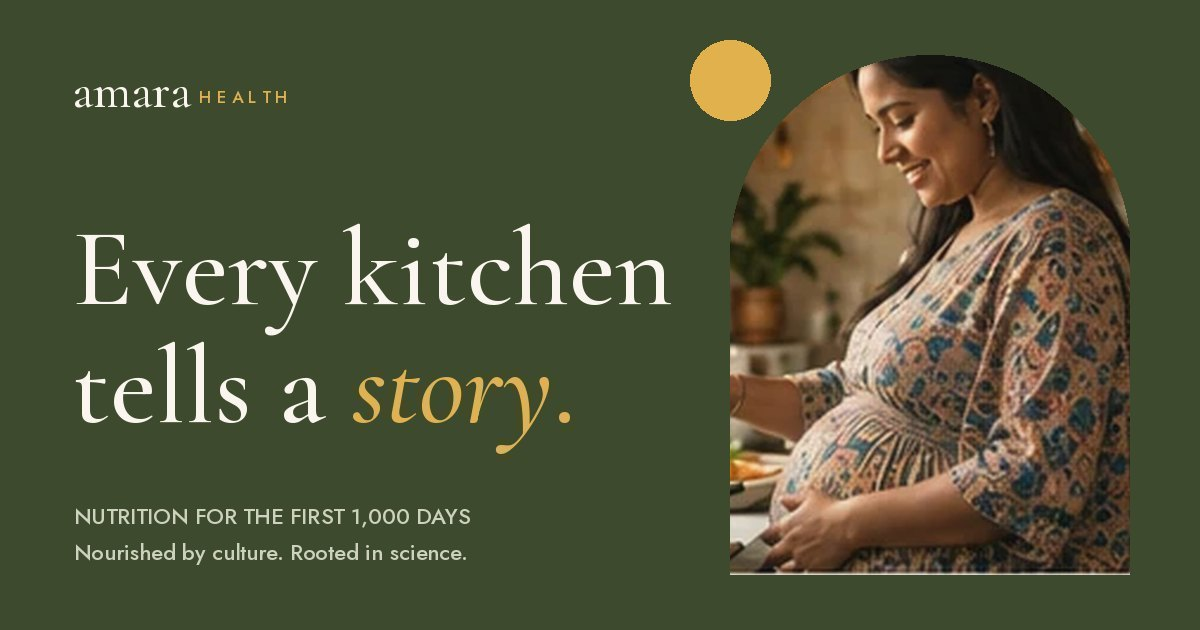
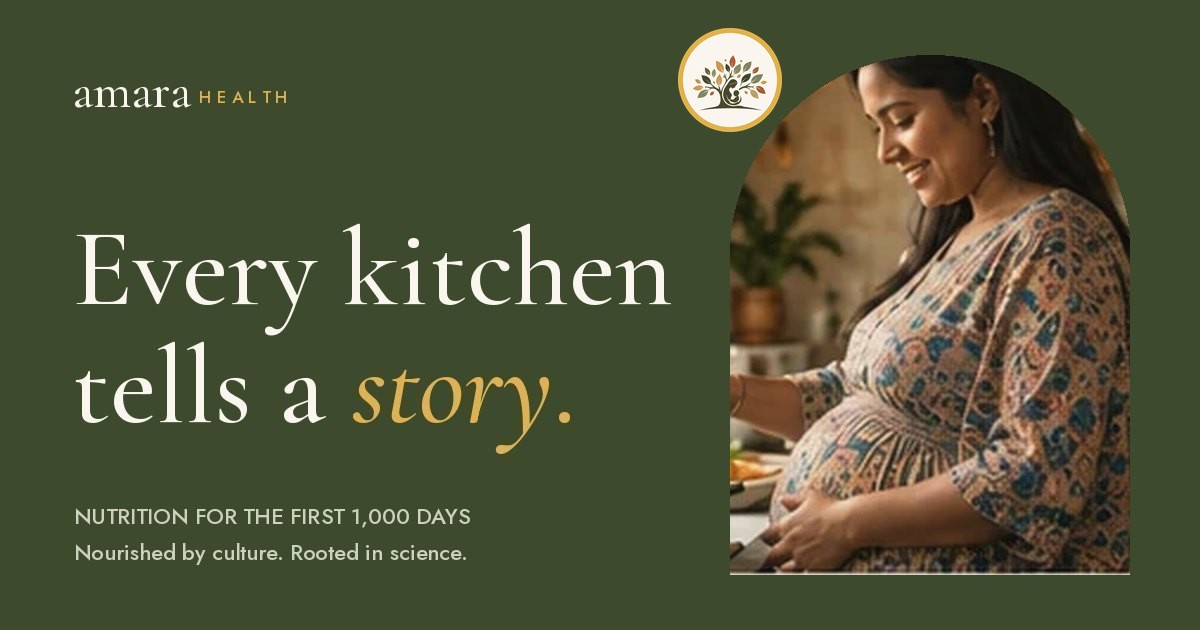
Erica bio, progress intro and timeline, email coming soon, branded link preview
- Founders: Erica's bio updated to the two-paragraph version
- Progress: new intro line; continuous timeline line, gold for completed steps,
  green only for the current step, open circles for what's next
- Footer: Email shows 'Coming soon'
- Link preview image carries the tree emblem; og/twitter image URLs are absolute

Claude-Session: https://claude.ai/code/session_0169984jrpwjxcBSJytRpTHi

Changed region(s): [[0.555, 0.0302, 0.6783, 0.2111]]

diff --git a/founders.html b/founders.html
@@ -12,14 +12,14 @@
 <meta property="og:site_name" content="Amara Health">
 <meta property="og:title" content="Founders — Amara Health">
 <meta property="og:description" content="Reimagining maternal nutrition through culture, science, and technology, for the first 1,000 days.">
-<meta property="og:image" content="/assets/brand/og-image.jpg">
+<meta property="og:image" content="https://amara1000.netlify.app/assets/brand/og-image.jpg?v=2">
 <meta property="og:image:width" content="1200">
 <meta property="og:image:height" content="630">
 <meta property="og:image:alt" content="Amara Health — Every table. Every kitchen. Every culture.">
 <meta name="twitter:card" content="summary_large_image">
 <meta name="twitter:title" content="Founders — Amara Health">
 <meta name="twitter:description" content="Reimagining maternal nutrition through culture, science, and technology.">
-<meta name="twitter:image" content="/assets/brand/og-image.jpg">
+<meta name="twitter:image" content="https://amara1000.netlify.app/assets/brand/og-image.jpg?v=2">
 
 <link rel="icon" href="/favicon.ico" sizes="any">
 <link rel="icon" href="/assets/brand/favicon-32.png?v=2" type="image/png" sizes="32x32">
@@ -123,9 +123,8 @@ window.scrollTo(0, 0);
           <h2 class="founder-name">Erica Stephens, MPH</h2>
           <p class="founder-creds">Co-founder · MPH, Johns Hopkins Bloomberg School of Public Health</p>
           <div class="founder-bio">
-            <p>Erica grew up on a tobacco farm in rural Virginia, surrounded by the food traditions of the Black American South&mdash;collard greens, black-eyed peas, sweet potatoes, butter beans, and meals made from what was grown, shared, and passed down through generations.</p>
-            <p>Her lifelong interest in health, nutrition, fitness, and motherhood eventually became part of her work in public health. With a background spanning health policy, data, digital health, and health systems, Erica co-founded Amara to help build nutrition tools that reflect the foods, cultures, and everyday realities of the women who use them.</p>
-            <p>She believes better maternal health starts with meeting women where they are&mdash;and recognizing the knowledge, traditions, and nourishment already present at their tables.</p>
+            <p>Erica grew up on a tobacco farm in rural Virginia, eating the foods of the Black American South. Collard greens slow-cooked with smoked turkey. Black-eyed peas, sweet potatoes, butter beans. Food grown, shared, and passed down through generations.</p>
+            <p>Her love of health, nutrition, fitness, and motherhood eventually became part of her work in public health. At Hopkins, she focused on health systems, policy, data, and digital health. She co-founded Amara with one conviction: nutrition tools should reflect the foods, cultures, and knowledge women already bring to the table.</p>
           </div>
         </div>
       </article>
@@ -152,7 +151,7 @@ window.scrollTo(0, 0);
       <div class="closing-side">
         <p class="closing-label">Stay connected</p>
         <ul class="stay-list">
-          <li><span class="stay-name">Email</span><a href="mailto:amarahealth@gmail.com">amarahealth@gmail.com</a></li>
+          <li><span class="stay-name">Email</span><span class="stay-soon">Coming soon</span></li>
           <li><span class="stay-name">LinkedIn</span><span class="stay-soon">Coming soon <svg viewBox="0 0 24 24" width="16" height="16" aria-hidden="true"><path d="M7 17 17 7M9 7h8v8" fill="none" stroke="currentColor" stroke-width="1.6"/></svg></span></li>
           <li><span class="stay-name">Amara Village</span><span class="stay-soon">Coming soon <svg viewBox="0 0 24 24" width="16" height="16" aria-hidden="true"><path d="M7 17 17 7M9 7h8v8" fill="none" stroke="currentColor" stroke-width="1.6"/></svg></span></li>
         </ul>

diff --git a/progress.html b/progress.html
@@ -12,14 +12,14 @@
 <meta property="og:site_name" content="Amara Health">
 <meta property="og:title" content="Progress — Amara Health">
 <meta property="og:description" content="Reimagining maternal nutrition through culture, science, and technology, for the first 1,000 days.">
-<meta property="og:image" content="/assets/brand/og-image.jpg">
+<meta property="og:image" content="https://amara1000.netlify.app/assets/brand/og-image.jpg?v=2">
 <meta property="og:image:width" content="1200">
 <meta property="og:image:height" content="630">
 <meta property="og:image:alt" content="Amara Health — Every table. Every kitchen. Every culture.">
 <meta name="twitter:card" content="summary_large_image">
 <meta name="twitter:title" content="Progress — Amara Health">
 <meta name="twitter:description" content="Reimagining maternal nutrition through culture, science, and technology.">
-<meta name="twitter:image" content="/assets/brand/og-image.jpg">
+<meta name="twitter:image" content="https://amara1000.netlify.app/assets/brand/og-image.jpg?v=2">
 
 <link rel="icon" href="/favicon.ico" sizes="any">
 <link rel="icon" href="/assets/brand/favicon-32.png?v=2" type="image/png" sizes="32x32">
@@ -108,7 +108,7 @@ window.scrollTo(0, 0);
       <h1 id="progress-title" class="display reveal">From an idea <em>to impact.</em></h1>
       </div>
       <div class="split-right">
-      <p class="lede reveal">We are early, and we say so plainly. Here is where Amara stands today.</p>
+      <p class="lede reveal">We&rsquo;re building Amara thoughtfully, one step at a time. Here&rsquo;s where we are today.</p>
           </div>
     </header>
 
@@ -163,7 +163,7 @@ window.scrollTo(0, 0);
       <div class="closing-side">
         <p class="closing-label">Stay connected</p>
         <ul class="stay-list">
-          <li><span class="stay-name">Email</span><a href="mailto:amarahealth@gmail.com">amarahealth@gmail.com</a></li>
+          <li><span class="stay-name">Email</span><span class="stay-soon">Coming soon</span></li>
           <li><span class="stay-name">LinkedIn</span><span class="stay-soon">Coming soon <svg viewBox="0 0 24 24" width="16" height="16" aria-hidden="true"><path d="M7 17 17 7M9 7h8v8" fill="none" stroke="currentColor" stroke-width="1.6"/></svg></span></li>
           <li><span class="stay-name">Amara Village</span><span class="stay-soon">Coming soon <svg viewBox="0 0 24 24" width="16" height="16" aria-hidden="true"><path d="M7 17 17 7M9 7h8v8" fill="none" stroke="currentColor" stroke-width="1.6"/></svg></span></li>
         </ul>

diff --git a/index.html b/index.html
@@ -12,14 +12,14 @@
 <meta property="og:site_name" content="Amara Health">
 <meta property="og:title" content="Amara Health — Every table. Every kitchen. Every culture.">
 <meta property="og:description" content="Reimagining maternal nutrition through culture, science, and technology, for the first 1,000 days.">
-<meta property="og:image" content="/assets/brand/og-image.jpg">
+<meta property="og:image" content="https://amara1000.netlify.app/assets/brand/og-image.jpg?v=2">
 <meta property="og:image:width" content="1200">
 <meta property="og:image:height" content="630">
 <meta property="og:image:alt" content="Amara Health — Every table. Every kitchen. Every culture.">
 <meta name="twitter:card" content="summary_large_image">
 <meta name="twitter:title" content="Amara Health — Every table. Every kitchen. Every culture.">
 <meta name="twitter:description" content="Reimagining maternal nutrition through culture, science, and technology.">
-<meta name="twitter:image" content="/assets/brand/og-image.jpg">
+<meta name="twitter:image" content="https://amara1000.netlify.app/assets/brand/og-image.jpg?v=2">
 
 <link rel="icon" href="/favicon.ico" sizes="any">
 <link rel="icon" href="/assets/brand/favicon-32.png?v=2" type="image/png" sizes="32x32">
@@ -172,7 +172,7 @@ window.scrollTo(0, 0);
       <div class="closing-side">
         <p class="closing-label">Stay connected</p>
         <ul class="stay-list">
-          <li><span class="stay-name">Email</span><a href="mailto:amarahealth@gmail.com">amarahealth@gmail.com</a></li>
+          <li><span class="stay-name">Email</span><span class="stay-soon">Coming soon</span></li>
           <li><span class="stay-name">LinkedIn</span><span class="stay-soon">Coming soon <svg viewBox="0 0 24 24" width="16" height="16" aria-hidden="true"><path d="M7 17 17 7M9 7h8v8" fill="none" stroke="currentColor" stroke-width="1.6"/></svg></span></li>
           <li><span class="stay-name">Amara Village</span><span class="stay-soon">Coming soon <svg viewBox="0 0 24 24" width="16" height="16" aria-hidden="true"><path d="M7 17 17 7M9 7h8v8" fill="none" stroke="currentColor" stroke-width="1.6"/></svg></span></li>
         </ul>

diff --git a/partner.html b/partner.html
@@ -12,14 +12,14 @@
 <meta property="og:site_name" content="Amara Health">
 <meta property="og:title" content="Partner With Us — Amara Health">
 <meta property="og:description" content="Reimagining maternal nutrition through culture, science, and technology, for the first 1,000 days.">
-<meta property="og:image" content="/assets/brand/og-image.jpg">
+<meta property="og:image" content="https://amara1000.netlify.app/assets/brand/og-image.jpg?v=2">
 <meta property="og:image:width" content="1200">
 <meta property="og:image:height" content="630">
 <meta property="og:image:alt" content="Amara Health — Every table. Every kitchen. Every culture.">
 <meta name="twitter:card" content="summary_large_image">
 <meta name="twitter:title" content="Partner With Us — Amara Health">
 <meta name="twitter:description" content="Reimagining maternal nutrition through culture, science, and technology.">
-<meta name="twitter:image" content="/assets/brand/og-image.jpg">
+<meta name="twitter:image" content="https://amara1000.netlify.app/assets/brand/og-image.jpg?v=2">
 
 <link rel="icon" href="/favicon.ico" sizes="any">
 <link rel="icon" href="/assets/brand/favicon-32.png?v=2" type="image/png" sizes="32x32">
@@ -226,7 +226,7 @@ window.scrollTo(0, 0);
       <div class="closing-side">
         <p class="closing-label">Stay connected</p>
         <ul class="stay-list">
-          <li><span class="stay-name">Email</span><a href="mailto:amarahealth@gmail.com">amarahealth@gmail.com</a></li>
+          <li><span class="stay-name">Email</span><span class="stay-soon">Coming soon</span></li>
           <li><span class="stay-name">LinkedIn</span><span class="stay-soon">Coming soon <svg viewBox="0 0 24 24" width="16" height="16" aria-hidden="true"><path d="M7 17 17 7M9 7h8v8" fill="none" stroke="currentColor" stroke-width="1.6"/></svg></span></li>
           <li><span class="stay-name">Amara Village</span><span class="stay-soon">Coming soon <svg viewBox="0 0 24 24" width="16" height="16" aria-hidden="true"><path d="M7 17 17 7M9 7h8v8" fill="none" stroke="currentColor" stroke-width="1.6"/></svg></span></li>
         </ul>

diff --git a/challenge.html b/challenge.html
@@ -12,14 +12,14 @@
 <meta property="og:site_name" content="Amara Health">
 <meta property="og:title" content="The Challenge — Amara Health">
 <meta property="og:description" content="Reimagining maternal nutrition through culture, science, and technology, for the first 1,000 days.">
-<meta property="og:image" content="/assets/brand/og-image.jpg">
+<meta property="og:image" content="https://amara1000.netlify.app/assets/brand/og-image.jpg?v=2">
 <meta property="og:image:width" content="1200">
 <meta property="og:image:height" content="630">
 <meta property="og:image:alt" content="Amara Health — Every table. Every kitchen. Every culture.">
 <meta name="twitter:card" content="summary_large_image">
 <meta name="twitter:title" content="The Challenge — Amara Health">
 <meta name="twitter:description" content="Reimagining maternal nutrition through culture, science, and technology.">
-<meta name="twitter:image" content="/assets/brand/og-image.jpg">
+<meta name="twitter:image" content="https://amara1000.netlify.app/assets/brand/og-image.jpg?v=2">
 
 <link rel="icon" href="/favicon.ico" sizes="any">
 <link rel="icon" href="/assets/brand/favicon-32.png?v=2" type="image/png" sizes="32x32">
@@ -230,7 +230,7 @@ window.scrollTo(0, 0);
       <div class="closing-side">
         <p class="closing-label">Stay connected</p>
         <ul class="stay-list">
-          <li><span class="stay-name">Email</span><a href="mailto:amarahealth@gmail.com">amarahealth@gmail.com</a></li>
+          <li><span class="stay-name">Email</span><span class="stay-soon">Coming soon</span></li>
           <li><span class="stay-name">LinkedIn</span><span class="stay-soon">Coming soon <svg viewBox="0 0 24 24" width="16" height="16" aria-hidden="true"><path d="M7 17 17 7M9 7h8v8" fill="none" stroke="currentColor" stroke-width="1.6"/></svg></span></li>
           <li><span class="stay-name">Amara Village</span><span class="stay-soon">Coming soon <svg viewBox="0 0 24 24" width="16" height="16" aria-hidden="true"><path d="M7 17 17 7M9 7h8v8" fill="none" stroke="currentColor" stroke-width="1.6"/></svg></span></li>
         </ul>

diff --git a/approach.html b/approach.html
@@ -12,14 +12,14 @@
 <meta property="og:site_name" content="Amara Health">
 <meta property="og:title" content="Our Approach — Amara Health">
 <meta property="og:description" content="Reimagining maternal nutrition through culture, science, and technology, for the first 1,000 days.">
-<meta property="og:image" content="/assets/brand/og-image.jpg">
+<meta property="og:image" content="https://amara1000.netlify.app/assets/brand/og-image.jpg?v=2">
 <meta property="og:image:width" content="1200">
 <meta property="og:image:height" content="630">
 <meta property="og:image:alt" content="Amara Health — Every table. Every kitchen. Every culture.">
 <meta name="twitter:card" content="summary_large_image">
 <meta name="twitter:title" content="Our Approach — Amara Health">
 <meta name="twitter:description" content="Reimagining maternal nutrition through culture, science, and technology.">
-<meta name="twitter:image" content="/assets/brand/og-image.jpg">
+<meta name="twitter:image" content="https://amara1000.netlify.app/assets/brand/og-image.jpg?v=2">
 
 <link rel="icon" href="/favicon.ico" sizes="any">
 <link rel="icon" href="/assets/brand/favicon-32.png?v=2" type="image/png" sizes="32x32">
@@ -194,7 +194,7 @@ window.scrollTo(0, 0);
       <div class="closing-side">
         <p class="closing-label">Stay connected</p>
         <ul class="stay-list">
-          <li><span class="stay-name">Email</span><a href="mailto:amarahealth@gmail.com">amarahealth@gmail.com</a></li>
+          <li><span class="stay-name">Email</span><span class="stay-soon">Coming soon</span></li>
           <li><span class="stay-name">LinkedIn</span><span class="stay-soon">Coming soon <svg viewBox="0 0 24 24" width="16" height="16" aria-hidden="true"><path d="M7 17 17 7M9 7h8v8" fill="none" stroke="currentColor" stroke-width="1.6"/></svg></span></li>
           <li><span class="stay-name">Amara Village</span><span class="stay-soon">Coming soon <svg viewBox="0 0 24 24" width="16" height="16" aria-hidden="true"><path d="M7 17 17 7M9 7h8v8" fill="none" stroke="currentColor" stroke-width="1.6"/></svg></span></li>
         </ul>

diff --git a/flora.html b/flora.html
@@ -12,14 +12,14 @@
 <meta property="og:site_name" content="Amara Health">
 <meta property="og:title" content="Meet Flora — Amara Health">
 <meta property="og:description" content="Reimagining maternal nutrition through culture, science, and technology, for the first 1,000 days.">
-<meta property="og:image" content="/assets/brand/og-image.jpg">
+<meta property="og:image" content="https://amara1000.netlify.app/assets/brand/og-image.jpg?v=2">
 <meta property="og:image:width" content="1200">
 <meta property="og:image:height" content="630">
 <meta property="og:image:alt" content="Amara Health — Every table. Every kitchen. Every culture.">
 <meta name="twitter:card" content="summary_large_image">
 <meta name="twitter:title" content="Meet Flora — Amara Health">
 <meta name="twitter:description" content="Reimagining maternal nutrition through culture, science, and technology.">
-<meta name="twitter:image" content="/assets/brand/og-image.jpg">
+<meta name="twitter:image" content="https://amara1000.netlify.app/assets/brand/og-image.jpg?v=2">
 
 <link rel="icon" href="/favicon.ico" sizes="any">
 <link rel="icon" href="/assets/brand/favicon-32.png?v=2" type="image/png" sizes="32x32">
@@ -162,7 +162,7 @@ window.scrollTo(0, 0);
       <div class="closing-side">
         <p class="closing-label">Stay connected</p>
         <ul class="stay-list">
-          <li><span class="stay-name">Email</span><a href="mailto:amarahealth@gmail.com">amarahealth@gmail.com</a></li>
+          <li><span class="stay-name">Email</span><span class="stay-soon">Coming soon</span></li>
           <li><span class="stay-name">LinkedIn</span><span class="stay-soon">Coming soon <svg viewBox="0 0 24 24" width="16" height="16" aria-hidden="true"><path d="M7 17 17 7M9 7h8v8" fill="none" stroke="currentColor" stroke-width="1.6"/></svg></span></li>
           <li><span class="stay-name">Amara Village</span><span class="stay-soon">Coming soon <svg viewBox="0 0 24 24" width="16" height="16" aria-hidden="true"><path d="M7 17 17 7M9 7h8v8" fill="none" stroke="currentColor" stroke-width="1.6"/></svg></span></li>
         </ul>

diff --git a/story.html b/story.html
@@ -12,14 +12,14 @@
 <meta property="og:site_name" content="Amara Health">
 <meta property="og:title" content="Our Story — Amara Health">
 <meta property="og:description" content="Reimagining maternal nutrition through culture, science, and technology, for the first 1,000 days.">
-<meta property="og:image" content="/assets/brand/og-image.jpg">
+<meta property="og:image" content="https://amara1000.netlify.app/assets/brand/og-image.jpg?v=2">
 <meta property="og:image:width" content="1200">
 <meta property="og:image:height" content="630">
 <meta property="og:image:alt" content="Amara Health — Every table. Every kitchen. Every culture.">
 <meta name="twitter:card" content="summary_large_image">
 <meta name="twitter:title" content="Our Story — Amara Health">
 <meta name="twitter:description" content="Reimagining maternal nutrition through culture, science, and technology.">
-<meta name="twitter:image" content="/assets/brand/og-image.jpg">
+<meta name="twitter:image" content="https://amara1000.netlify.app/assets/brand/og-image.jpg?v=2">
 
 <link rel="icon" href="/favicon.ico" sizes="any">
 <link rel="icon" href="/assets/brand/favicon-32.png?v=2" type="image/png" sizes="32x32">
@@ -150,7 +150,7 @@ window.scrollTo(0, 0);
       <div class="closing-side">
         <p class="closing-label">Stay connected</p>
         <ul class="stay-list">
-          <li><span class="stay-name">Email</span><a href="mailto:amarahealth@gmail.com">amarahealth@gmail.com</a></li>
+          <li><span class="stay-name">Email</span><span class="stay-soon">Coming soon</span></li>
           <li><span class="stay-name">LinkedIn</span><span class="stay-soon">Coming soon <svg viewBox="0 0 24 24" width="16" height="16" aria-hidden="true"><path d="M7 17 17 7M9 7h8v8" fill="none" stroke="currentColor" stroke-width="1.6"/></svg></span></li>
           <li><span class="stay-name">Amara Village</span><span class="stay-soon">Coming soon <svg viewBox="0 0 24 24" width="16" height="16" aria-hidden="true"><path d="M7 17 17 7M9 7h8v8" fill="none" stroke="currentColor" stroke-width="1.6"/></svg></span></li>
         </ul>

diff --git a/assets/css/styles.css b/assets/css/styles.css
@@ -1202,3 +1202,10 @@ h2 em { font-style: italic; font-weight: 400; }
 .problem + .kitchens { padding-top: clamp(40px, 5vw, 64px); }
 .kitchens .transition-line { margin-top: 0; padding-top: 40px; }
 .founder-bio p { color: var(--ink-soft); } .founder-bio p + p { margin-top: 14px; }
+/* Progress timeline: one continuous line; gold for completed steps, green only for where we are now */
+.progress .milestone, .progress .milestone.is-done { border-top-color: rgba(62, 74, 46, .28); }
+.progress .milestone::before { background: var(--cream); border: 2px solid rgba(62, 74, 46, .4); box-shadow: none; }
+.progress .milestone.is-done::before { background: var(--gold); border-color: var(--gold); }
+.progress .milestone.is-now::before { background: var(--sage); border-color: var(--sage); box-shadow: 0 0 0 6px rgba(122, 138, 90, .25); }
+.progress .milestone.is-now .ms-status { color: var(--sage-text) !important; }
+@media (max-width: 900px) { .progress .milestone, .progress .milestone.is-done { border-left-color: rgba(62, 74, 46, .28); } }

diff --git a/privacy.html b/privacy.html
@@ -81,7 +81,7 @@
       <div class="closing-side">
         <p class="closing-label">Stay connected</p>
         <ul class="stay-list">
-          <li><span class="stay-name">Email</span><a href="mailto:amarahealth@gmail.com">amarahealth@gmail.com</a></li>
+          <li><span class="stay-name">Email</span><span class="stay-soon">Coming soon</span></li>
           <li><span class="stay-name">LinkedIn</span><span class="stay-soon">Coming soon <svg viewBox="0 0 24 24" width="16" height="16" aria-hidden="true"><path d="M7 17 17 7M9 7h8v8" fill="none" stroke="currentColor" stroke-width="1.6"/></svg></span></li>
           <li><span class="stay-name">Amara Village</span><span class="stay-soon">Coming soon <svg viewBox="0 0 24 24" width="16" height="16" aria-hidden="true"><path d="M7 17 17 7M9 7h8v8" fill="none" stroke="currentColor" stroke-width="1.6"/></svg></span></li>
         </ul>
